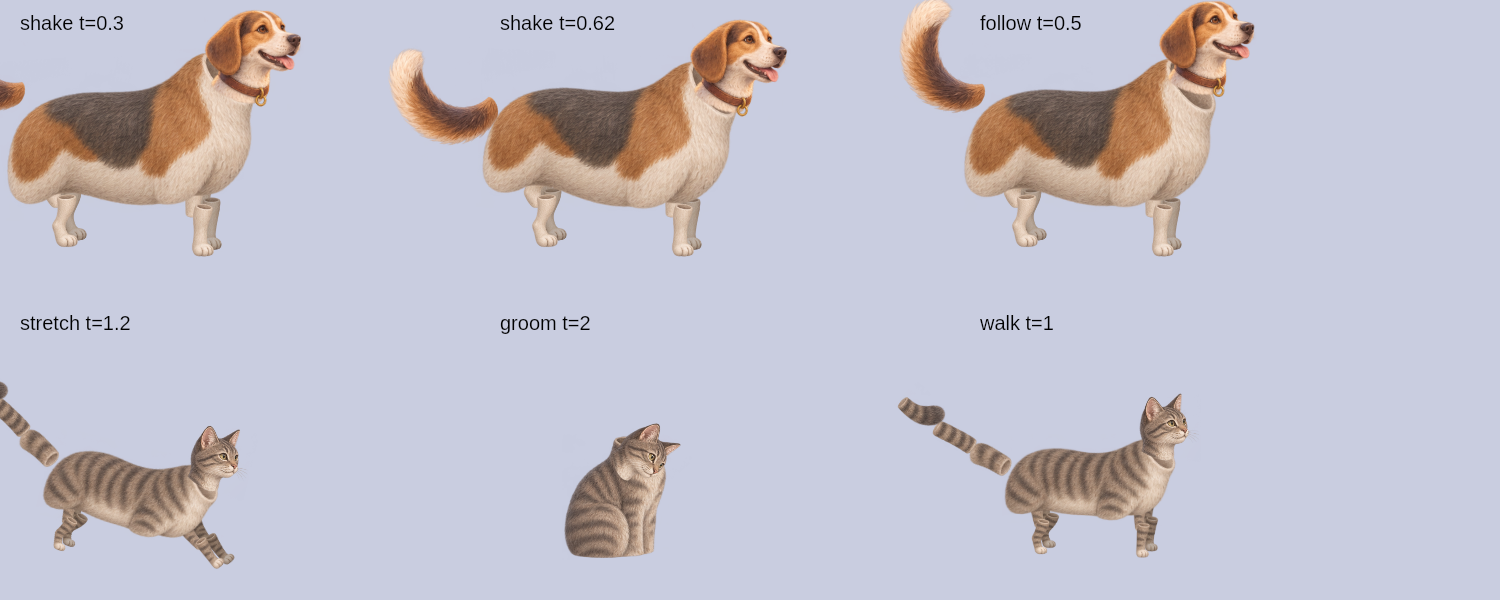
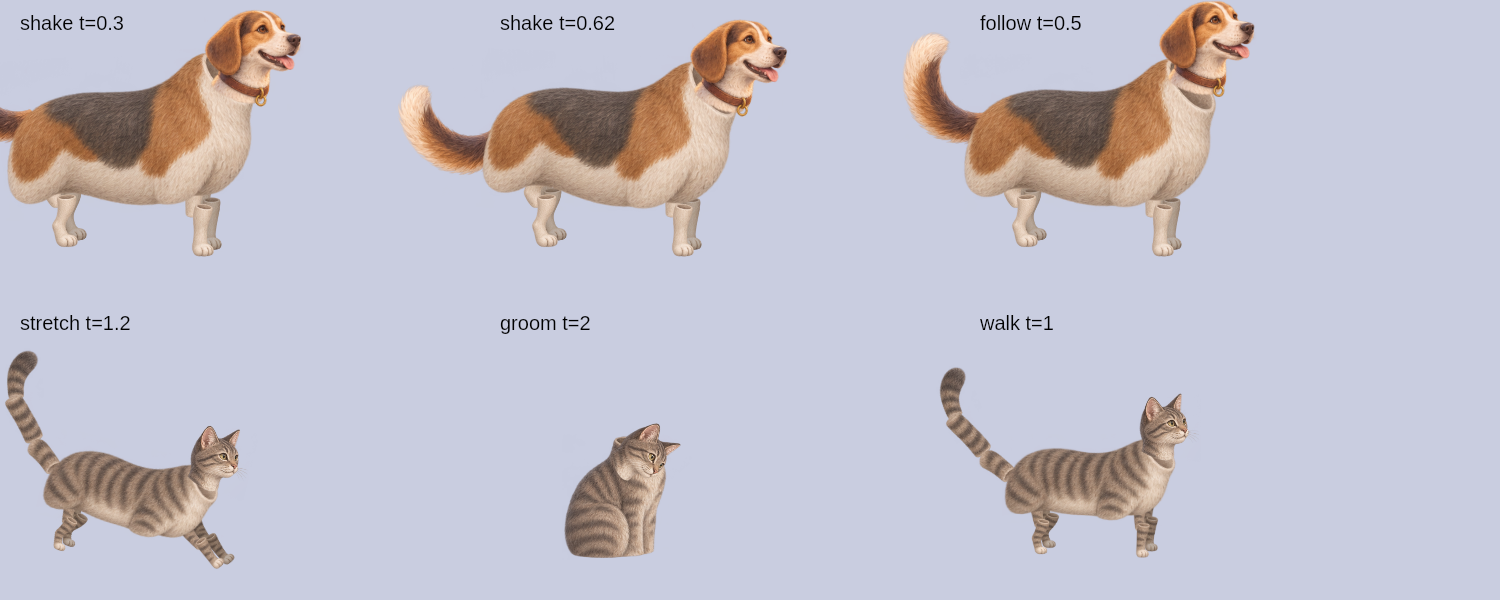
Oprava ocasů psa a kočky
- psí ocas: kořen (na obrázku vlevo dole) leží uvnitř obrysu zádě,
  ocas jde nahoru dozadu a vrtí se kolem kořene
- kočičí ocas: tři články ve společném měřítku archu, správně zřetězené
  (kořen každého článku = dutý konec), koncový článek zrcadlený (špička
  od těla); kreslí se od špičky ke kořeni, aby bližší článek kryl dutý konec

Claude-Session: https://claude.ai/code/session_01RUV9wyQ56oLHxGhBhsFU8U

diff --git a/src/core/render/animalRenderer.ts b/src/core/render/animalRenderer.ts
@@ -20,8 +20,8 @@ interface Rig {
   /** úhel nohou při chůzi (rad) */ swing: number;
 }
 const RIGS: Record<'dog' | 'cat', Rig> = {
-  dog: { shoulder: [0.78, 0.66], hip: [0.25, 0.6], neck: [0.88, 0.2], tail: [0.07, 0.32], headAt: [0.32, 0.86], upper: 0.13, lower: 0.12, head: 0.24, tailLen: 0.24, swing: 0.42 },
-  cat: { shoulder: [0.8, 0.66], hip: [0.22, 0.62], neck: [0.9, 0.24], tail: [0.05, 0.38], headAt: [0.36, 0.9], upper: 0.085, lower: 0.08, head: 0.15, tailLen: 0.3, swing: 0.38 },
+  dog: { shoulder: [0.78, 0.66], hip: [0.25, 0.6], neck: [0.88, 0.2], tail: [0.09, 0.47], headAt: [0.32, 0.86], upper: 0.13, lower: 0.12, head: 0.24, tailLen: 0.24, swing: 0.42 },
+  cat: { shoulder: [0.8, 0.66], hip: [0.22, 0.62], neck: [0.9, 0.24], tail: [0.07, 0.48], headAt: [0.36, 0.9], upper: 0.085, lower: 0.08, head: 0.15, tailLen: 0.3, swing: 0.38 },
 };
 
 /** Vykreslí zvíře s chodidly v (0,0) – volající nastaví posun a měřítko (px na metr). */
@@ -108,26 +108,41 @@ export function drawAnimal(ctx: Ctx, a: AnimalState, img: AnimalImages, pxPerM: 
   ctx.save(); rotAbout(shakeAt(0.09));
   const tail = img(`${pre}tail`);
   if (!tail && img(`${pre}tail_1`)) {
-    // kočičí ocas ze tří článků: oblouk nahoru, pomalé vlnění špičky se zpožděním za trupem
-    const tj = J(R.tail), seg = (R.tailLen * pxPerM) / 3;
-    ctx.save(); ctx.translate(tj.x, tj.y);
-    [1, 2, 3].forEach((k) => {
-      const im = img(`${pre}tail_${k}`); if (!im) return;
-      const ang = (k === 1 ? 0.4 : 0.22) + 0.15 * Math.sin(t * 1.3 - k * 0.7) * (k / 3);
-      ctx.rotate(ang);
-      const h = (seg * im.height) / im.width * 1.15;
-      ctx.drawImage(im, -seg * 1.1, -h / 2, seg * 1.15, h); // článek od kořene (vpravo) dozadu
-      ctx.translate(-seg, 0);
-    });
-    ctx.restore();
+    // kočičí ocas ze tří článků (jedno společné měřítko archu): kořen každého článku je vpravo
+    // (u článků 1–2 dutý konec), koncový článek je malovaný špičkou doprava → zrcadlit.
+    // Řetěz od kořene: oblouk nahoru, pomalé vlnění se zpožděním; kreslí se od špičky ke kořeni,
+    // aby každý bližší článek zakryl dutý konec následujícího.
+    const ims = [1, 2, 3].map((k) => img(`${pre}tail_${k}`));
+    if (ims.every(Boolean)) {
+      const L = [ims[0]!.width * 0.86, ims[1]!.width * 0.86, ims[2]!.width * 0.8];
+      const k = (R.tailLen * pxPerM) / (L[0] + L[1] + L[2]);
+      const tj = J(R.tail);
+      const mats: DOMMatrix[] = [];
+      ctx.save(); ctx.translate(tj.x, tj.y);
+      for (let i = 0; i < 3; i++) {
+        const ang = [0.55, 0.3, 0.25][i] + 0.14 * Math.sin(t * 1.3 - i * 0.7) * ((i + 1) / 3) + (walk > 0.3 ? -0.15 : 0) * (i === 0 ? 1 : 0);
+        ctx.rotate(ang);
+        mats.push(ctx.getTransform());
+        ctx.translate(-L[i] * k, 0);
+      }
+      ctx.restore();
+      for (let i = 2; i >= 0; i--) {
+        const im = ims[i]!, w = im.width * k, h = im.height * k;
+        ctx.save(); ctx.setTransform(mats[i]);
+        if (i < 2) ctx.drawImage(im, -w * 0.97, -h / 2, w, h); // kořen = pravý (dutý) konec
+        else { ctx.scale(-1, 1); ctx.drawImage(im, -w * 0.05, -h * 0.73, w, h); } // zrcadlený konec: kořen vlevo dole
+        ctx.restore();
+      }
+    }
   }
   if (tail) {
+    // psí ocas: kořen je na obrázku vlevo dole, špička nahoře – zrcadlit, aby šel od zádě nahoru dozadu;
+    // kořen leží uvnitř obrysu trupu (trup se kreslí přes něj)
     const tj = J(R.tail), tl = R.tailLen * pxPerM;
-    const wag = (sp === 'dog' ? 0.22 * Math.sin(t * (walk > 0.3 || sh > 0 ? 9 : 4)) * (1 + sh) : 0.12 * Math.sin(t * 1.6)) ;
-    ctx.save(); ctx.translate(tj.x, tj.y); ctx.rotate(wag);
+    const wag = 0.22 * Math.sin(t * (walk > 0.3 || sh > 0 ? 9 : 4)) * (1 + sh);
+    ctx.save(); ctx.translate(tj.x, tj.y); ctx.rotate(wag - 0.15);
     const w = tl, h = (w * tail.height) / tail.width;
-    // malovaný ocas psa jde zdola zleva nahoru doprava – zrcadlit, aby mířil od těla
-    ctx.scale(-1, 1); ctx.drawImage(tail, -w * 0.08, -h * 0.85, w, h);
+    ctx.scale(-1, 1); ctx.drawImage(tail, -w * 0.14, -h * 0.82, w, h);
     ctx.restore();
   }
   ctx.restore();
